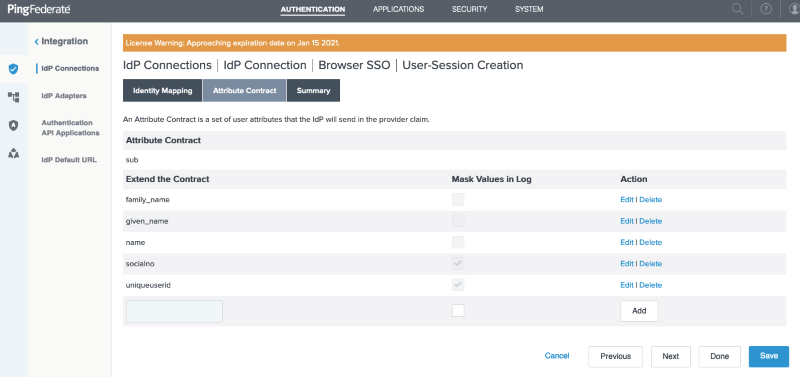
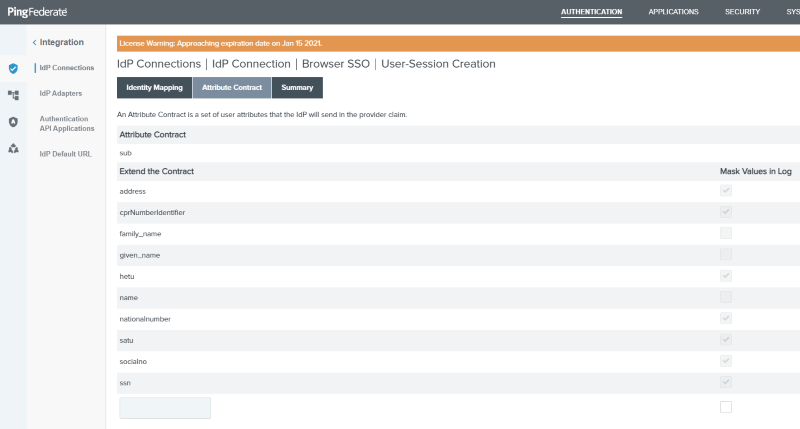
Removed an NO-specific comment and updated an image accordingly.

diff --git a/authentication/pingfederate.md b/authentication/pingfederate.md
@@ -81,8 +81,6 @@ Click the **Next** button and add the claim types that you want to consume in th
 
 ![Attribute Contract](/images/pingfederate-connection-attribute-contract.png)
 
-Here, we have chosen some representative fields from the Norwegian BankID e-ID method. 
-
 You can find the available claim types [here](/getting-started/token-contents).
 
 Click the **Save** button and the callback URL you need to finalize the Criipto Verify application configuration is displayed - in PingFederate terms, though, the callback URL is called a `Redirect URI`.
@@ -113,7 +111,7 @@ If you plan on using single-signon, you must also register your PingFederate `po
 
 How to integrate your application with PingFederate depends on the technology you are working with. Refer to the [PingFederate developer documentation](https://developer.pingidentity.com/en/cloud-software/pingfederate.html) for more details.
 
-If you want to use pass-through of `login_hint` values sent from your own application to Criipto Verify via PingFederate, you must enable via policy in your `IDP AUTHENTICATION POLICIES`. 
+If you want to use pass-through of `login_hint` values sent from your own application to Criipto Verify via PingFederate, you must enable it via a `Policy` in your `IDP AUTHENTICATION POLICIES`.
 
 If you haven't already done so, create a `Policy Contract` with the attributes you wish to consume
 
